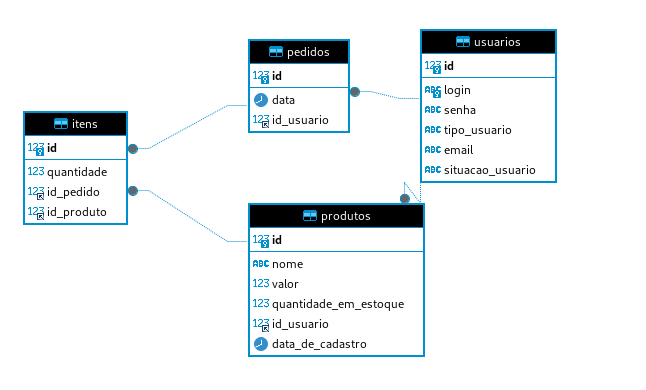
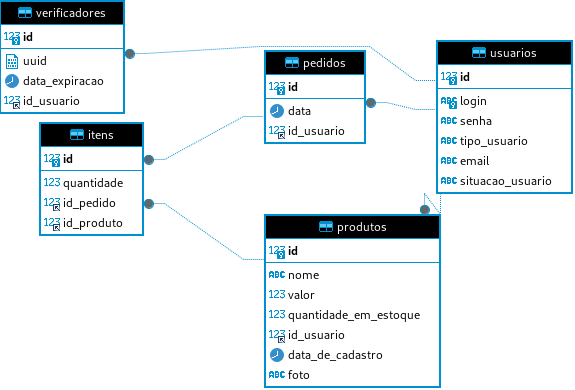
Implementando upload de arquivo

Changed region(s): [[0.0, 0.0, 1.0, 1.0], [0.3252, 0.2769, 0.3548, 0.3077], [0.2957, 0.3692, 0.3252, 0.4]]

diff --git a/src/main/java/pedidos/api/service/entity/ProdutoService.java b/src/main/java/pedidos/api/service/entity/ProdutoService.java
@@ -5,11 +5,14 @@ import jakarta.validation.Valid;
 import org.springframework.beans.factory.annotation.Autowired;
 import org.springframework.data.domain.Page;
 import org.springframework.data.domain.Pageable;
+import org.springframework.http.ResponseEntity;
 import org.springframework.stereotype.Service;
+import org.springframework.web.multipart.MultipartFile;
 import pedidos.api.dto.produto.DadosAtualizacaoProduto;
 import pedidos.api.dto.produto.DadosCadastroProduto;
 import pedidos.api.dto.produto.DadosDetalhamentoProduto;
 import pedidos.api.dto.produto.estoque.DadosCadastroProdutoEstoque;
+import pedidos.api.infra.storage.Disco;
 import pedidos.api.model.Produto;
 import pedidos.api.model.Usuario;
 import pedidos.api.repository.ProdutoRepository;
@@ -21,6 +24,9 @@ public class ProdutoService extends WeakEntityService {
 
     @Autowired
     private ProdutoRepository produtoRepository;
+
+    @Autowired
+    private Disco disco;
 
     public DadosDetalhamentoProduto cadastrar(DadosCadastroProduto dadosCadastroProduto, HttpServletRequest request) {
         Usuario usuario = capturarUsuarioLogado(request);
@@ -49,6 +55,13 @@ public class ProdutoService extends WeakEntityService {
         Usuario usuario = capturarUsuarioLogado(request);
         Produto produto = produtoRepository.getReferenceById(dadosAtualizacaoProduto.id());
         produto.atualizarDados(dadosAtualizacaoProduto, usuario);
+        return new DadosDetalhamentoProduto(produto);
+    }
+
+    public DadosDetalhamentoProduto adicionarFoto(MultipartFile foto, Long id) {
+        String nomeDoArquivo = disco.salvarFoto(foto);
+        Produto produto = produtoRepository.getReferenceById(id);
+        produto.adicionarFoto(nomeDoArquivo);
         return new DadosDetalhamentoProduto(produto);
     }
 }

diff --git a/src/main/java/pedidos/api/infra/storage/Disco.java b/src/main/java/pedidos/api/infra/storage/Disco.java
@@ -1,0 +1,48 @@
+package pedidos.api.infra.storage;
+
+import org.springframework.beans.factory.annotation.Value;
+import org.springframework.stereotype.Component;
+import org.springframework.web.multipart.MultipartFile;
+
+import java.io.IOException;
+import java.nio.file.Files;
+import java.nio.file.Path;
+import java.nio.file.Paths;
+import java.util.UUID;
+
+@Component
+public class Disco {
+
+    @Value("${contato.disco.raiz}")
+    private String raiz;
+
+    @Value("${contato.disco.diretorio-fotos}")
+    private String diretorioFotos;
+
+    public String salvarFoto(MultipartFile foto) {
+        String nomeDoArquivo = this.salvar(this.diretorioFotos, foto);
+        return nomeDoArquivo;
+    }
+
+    public String salvar(String diretorio, MultipartFile arquivo) {
+        Path diretorioPath = Paths.get(this.raiz, diretorio);
+        String novoNome = this.gerarNovoNome(arquivo.getOriginalFilename());
+        Path arquivoPath = diretorioPath.resolve(novoNome);
+
+        try {
+            Files.createDirectories(diretorioPath);
+            arquivo.transferTo(arquivoPath.toFile());
+        } catch (IOException e) {
+            throw new RuntimeException("Problemas na tentativa de salvar arquivo.", e);
+        }
+        return novoNome;
+    }
+
+    private String gerarNovoNome(String nomeOriginal)
+    {
+        String[] nomeSplit = nomeOriginal.split("\\.");
+        String extensao = "." + nomeSplit[1];
+
+        return UUID.randomUUID() + extensao;
+    }
+}

diff --git a/src/main/java/pedidos/api/controller/ProdutoController.java b/src/main/java/pedidos/api/controller/ProdutoController.java
@@ -7,11 +7,13 @@ import org.springframework.data.domain.Pageable;
 import org.springframework.http.ResponseEntity;
 import org.springframework.transaction.annotation.Transactional;
 import org.springframework.web.bind.annotation.*;
+import org.springframework.web.multipart.MultipartFile;
 import org.springframework.web.util.UriComponentsBuilder;
 import pedidos.api.dto.produto.DadosAtualizacaoProduto;
 import pedidos.api.dto.produto.DadosCadastroProduto;
 import pedidos.api.dto.produto.DadosDetalhamentoProduto;
 import pedidos.api.dto.produto.estoque.DadosCadastroProdutoEstoque;
+import pedidos.api.infra.storage.Disco;
 import pedidos.api.service.entity.ProdutoService;
 
 import java.util.List;
@@ -38,6 +40,13 @@ public class ProdutoController {
             @Valid @RequestBody DadosCadastroProdutoEstoque dadosCadastroProdutoEstoque) {
         DadosDetalhamentoProduto dadosDetalhamentoProduto = produtoService.adicionarEmEstoque(
                 dadosCadastroProdutoEstoque);
+        return ResponseEntity.ok(dadosDetalhamentoProduto);
+    }
+
+    @PostMapping("/foto/{id}")
+    @Transactional
+    public ResponseEntity<DadosDetalhamentoProduto> upload(@RequestParam MultipartFile foto, @PathVariable Long id) {
+        DadosDetalhamentoProduto dadosDetalhamentoProduto = produtoService.adicionarFoto(foto, id);
         return ResponseEntity.ok(dadosDetalhamentoProduto);
     }
 

diff --git a/src/main/java/pedidos/api/infra/security/SecurityConfigurations.java b/src/main/java/pedidos/api/infra/security/SecurityConfigurations.java
@@ -31,7 +31,8 @@ public class SecurityConfigurations {
                     req.requestMatchers(HttpMethod.GET,"/cadastrar/{uuid}").permitAll();
                     req.requestMatchers(HttpMethod.GET, "/usuarios", "/usuarios/{id}").hasRole("ADMIN");
                     req.requestMatchers(HttpMethod.PUT, "/usuarios").hasRole("ADMIN");
-                    req.requestMatchers(HttpMethod.POST, "/produtos", "/produtos/estoque").hasRole("ADMIN");
+                    req.requestMatchers(HttpMethod.POST, "/produtos", "/produtos/estoque",
+                            "/produtos/foto").hasRole("ADMIN");
                     req.requestMatchers(HttpMethod.PUT, "/produtos").hasRole("ADMIN");
                     req.requestMatchers(HttpMethod.GET, "/produtos", "/produtos/{id}").hasRole("USER");
                     req.requestMatchers(HttpMethod.POST, "/pedidos").hasRole("USER");

diff --git a/src/main/java/pedidos/api/dto/produto/DadosDetalhamentoProduto.java b/src/main/java/pedidos/api/dto/produto/DadosDetalhamentoProduto.java
@@ -9,7 +9,8 @@ public record DadosDetalhamentoProduto(
         String nome,
         Double valor,
         Integer quantidadeEmEstoque,
-        LocalDateTime dataDeCadastro
+        LocalDateTime dataDeCadastro,
+        String foto
 ) {
     public DadosDetalhamentoProduto(Produto produto) {
         this(
@@ -17,7 +18,8 @@ public record DadosDetalhamentoProduto(
                 produto.getNome(),
                 produto.getValor(),
                 produto.getQuantidadeEmEstoque(),
-                produto.getDataDeCadastro()
+                produto.getDataDeCadastro(),
+                produto.getFoto()
         );
     }
 }

diff --git a/src/main/java/pedidos/api/model/Produto.java b/src/main/java/pedidos/api/model/Produto.java
@@ -27,6 +27,7 @@ public class Produto {
     @ManyToOne
     @JoinColumn(name = "id_usuario")
     private Usuario usuario;
+    private String foto;
 
     public Produto(DadosCadastroProduto dadosCadastroProduto, Usuario usuario) {
         this.nome = dadosCadastroProduto.nome();
@@ -53,5 +54,9 @@ public class Produto {
 
     public void retirarEmEstoque(Integer quantidadeRetirada) {
         this.quantidadeEmEstoque = this.quantidadeEmEstoque - quantidadeRetirada;
+    }
+
+    public void adicionarFoto(String nomeDoArquivo) {
+        this.foto = nomeDoArquivo;
     }
 }
